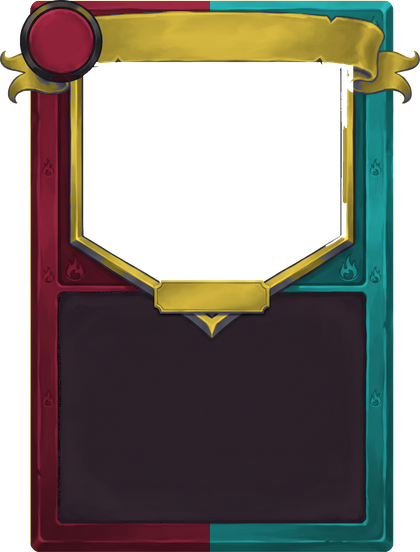
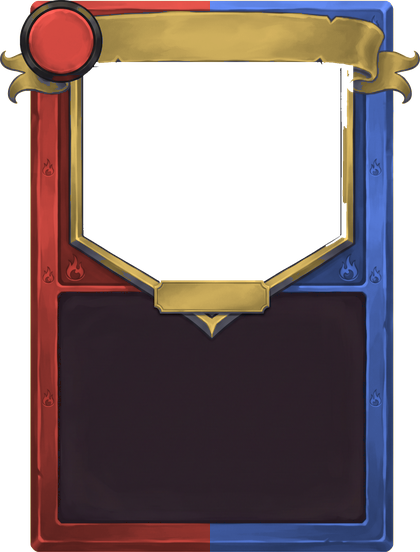
Duo : cadres aux couleurs des sprites (rouge Posipi, bleu Négapi), illustrations Duo prioritaires au nom de la carte
Claude-Session: https://claude.ai/code/session_01F5LB1yqDFW3yaDFxgXqtEv

Changed region(s): [[0.031, 0.0, 0.9905, 1.0]]

diff --git a/src/ui/card.ts b/src/ui/card.ts
@@ -26,7 +26,10 @@ export function renderCard(d: CardDef, o: CardRenderOptions = {}): string {
   const enemy = d.id.startsWith('ennemi-') || d.id.includes('copie:');
   // Duo : même cadre que les autres, recoloré (bordeaux / turquoise / bicolore, liserés dorés)
   const frame = enemy ? frameUrl('ennemi') : frameUrl(d.character === 'duo' ? `duo-${d.duoSide ?? 'both'}` : d.character);
-  const art = enemy ? artNoPokemon(d.name) : artUrl(d.artName ?? d.name, d.character) ?? (d.character === 'duo' ? artNoPokemon(d.artName ?? d.name) : undefined);
+  // Duo : d'abord l'illustration Gemini avec Posipi / Négapi (au nom de la carte), sinon l'attaque d'origine
+  const art = enemy ? artNoPokemon(d.name) : d.character === 'duo'
+    ? artUrl(d.name, 'duo') ?? artUrl(d.artName ?? d.name, 'duo') ?? artNoPokemon(d.artName ?? d.name)
+    : artUrl(d.artName ?? d.name, d.character);
   const orb = orbUrl(d.character);
   return `
     <div class="card ${d.character === 'duo' ? `duo-card duo-${d.duoSide ?? 'both'}` : ''} ${d.enchant ? `enchanted ench-${ENCHANTS[d.enchant]?.rarity ?? 'commun'}` : ''} rarity-${d.rarity} ${frame ? 'has-frame' : ''} ${enemy ? 'enemy-move-card' : ''} ${o.classes ?? ''}" ${o.uid !== undefined ? `data-uid="${o.uid}"` : ''}

diff --git a/src/ui/style.css b/src/ui/style.css
@@ -1644,9 +1644,9 @@ img.sprite, .roster img { image-rendering: pixelated; }
 .choice.centre-act:hover:not(:disabled) { transform: translateY(-4px); }
 .choice.centre-act:disabled { filter: grayscale(.8); opacity: .6; }
 /* ——— Duo Posipi & Négapi ——— */
-.card.duo-posipi { --tc: #8e1b34; }
-.card.duo-negapi { --tc: #138a8a; }
-.card.duo-both { --tc: #8e1b34; }
+.card.duo-posipi { --tc: #de4a41; }
+.card.duo-negapi { --tc: #5a83ee; }
+.card.duo-both { --tc: #de4a41; }
 .card.duo-relay::after { content: '⇄ Relais'; position: absolute; top: -12px; left: 50%; transform: translateX(-50%); padding: 1px 8px; border-radius: 8px; background: #f6cc2a; color: #3a2400; font: 900 11px 'Nunito', sans-serif; box-shadow: 0 2px 4px #0008; z-index: 5; }
 .fighter.player .duo-back { position: absolute; left: -90px; bottom: 70px; width: 220px; text-align: center; filter: brightness(.85); z-index: 0; }
 .fighter.player .player-sprite { position: relative; z-index: 1; }
